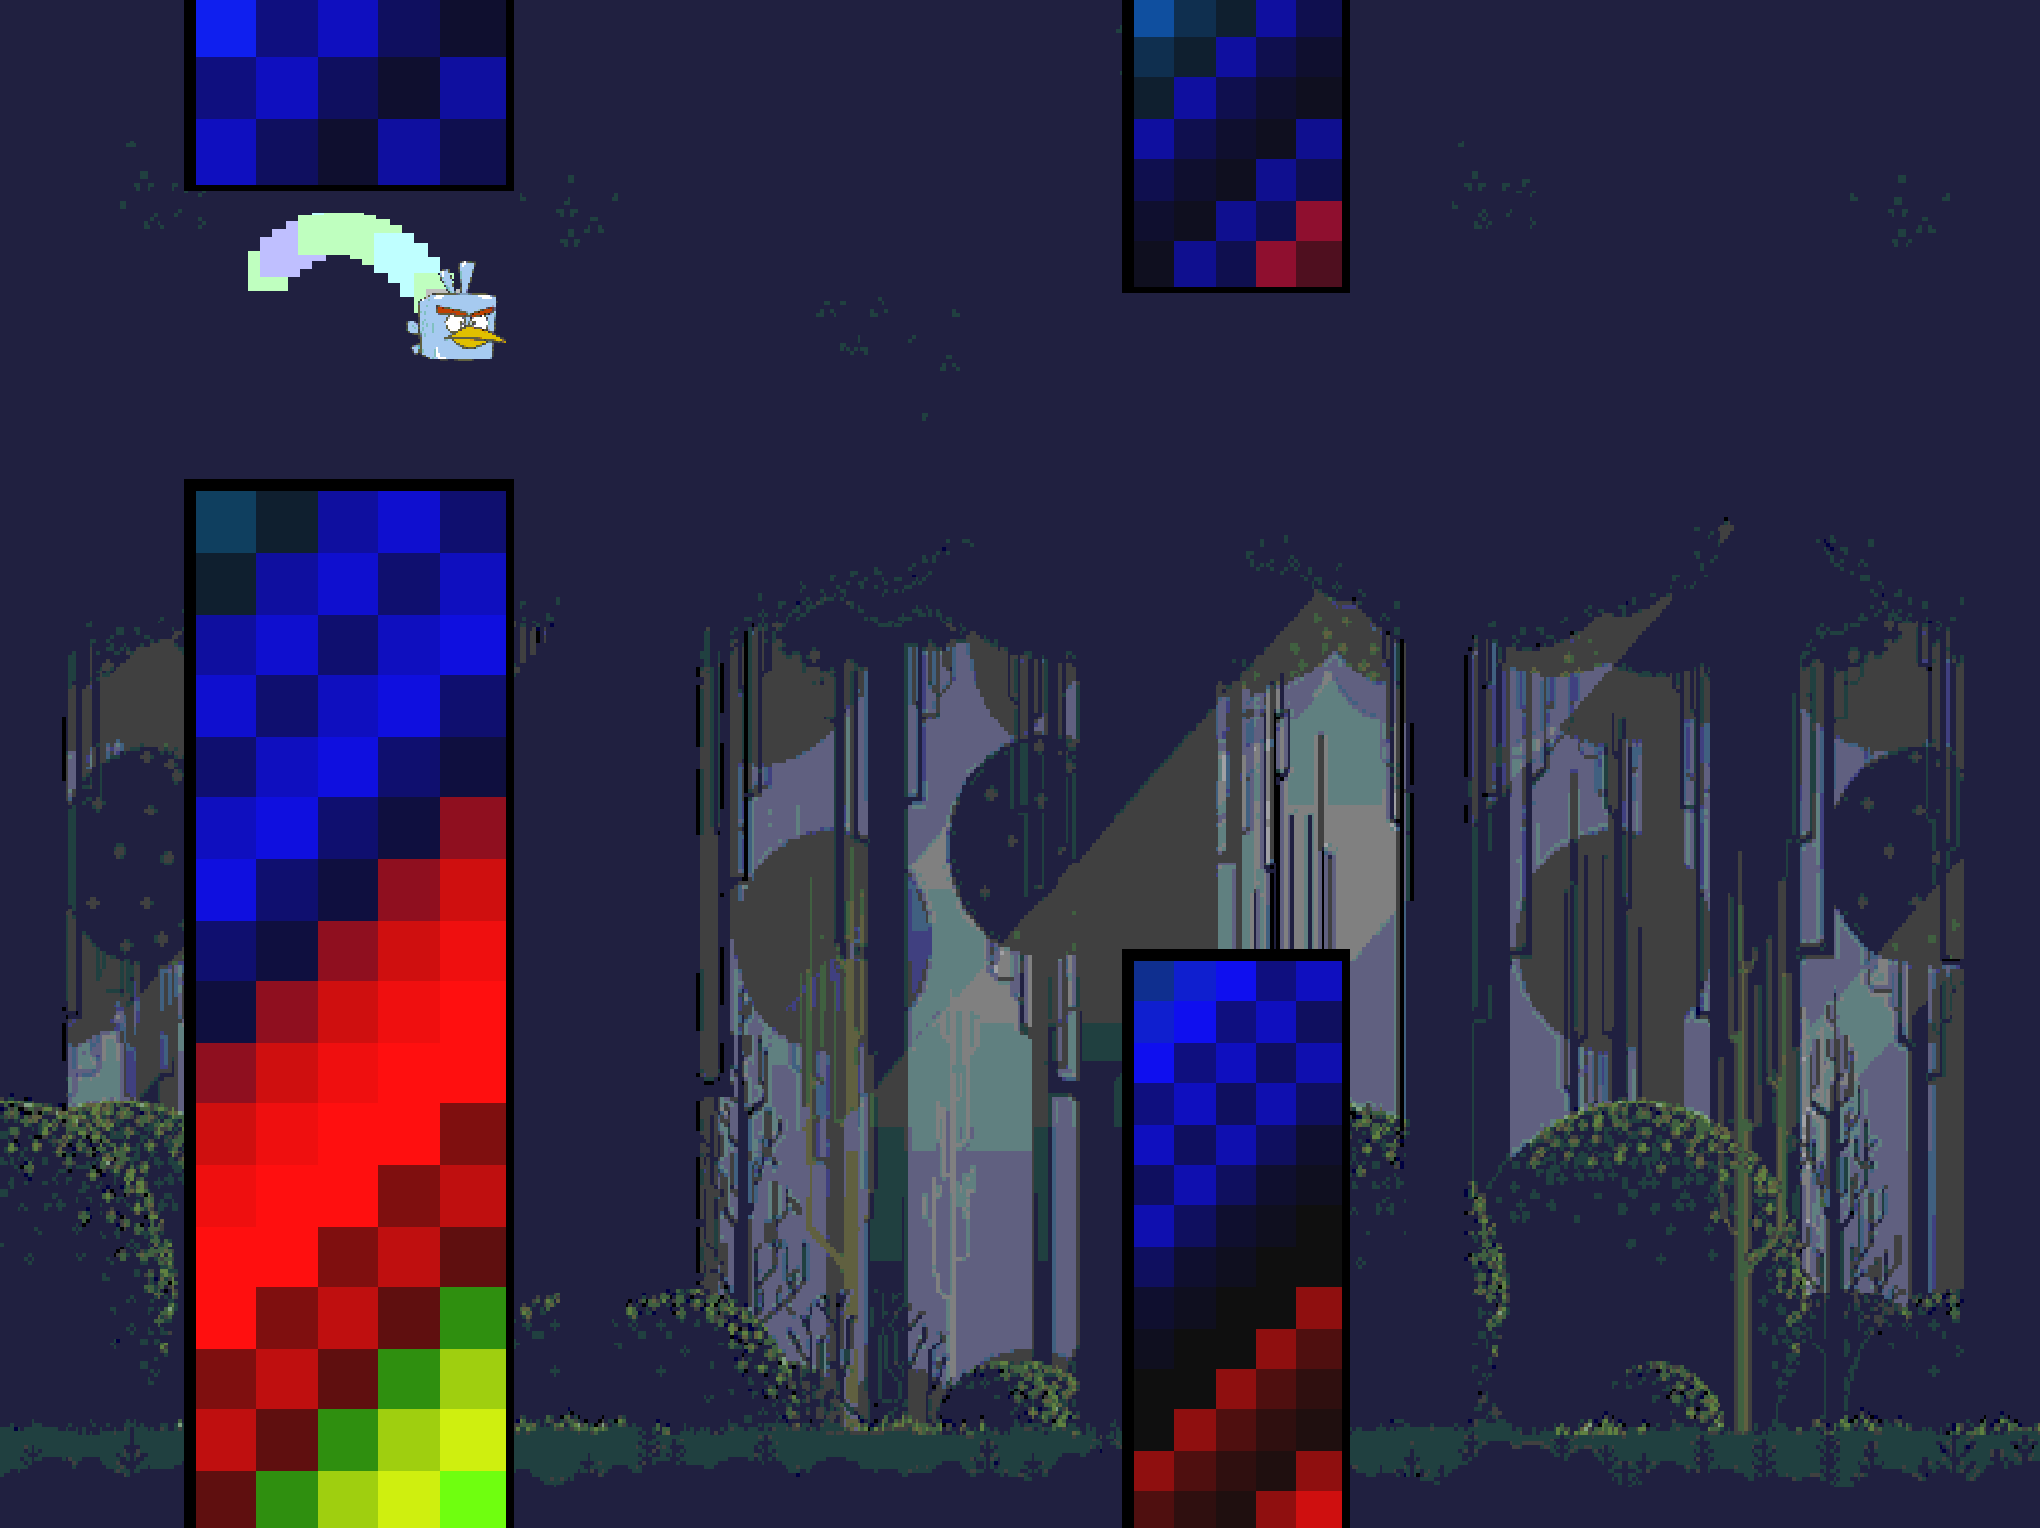
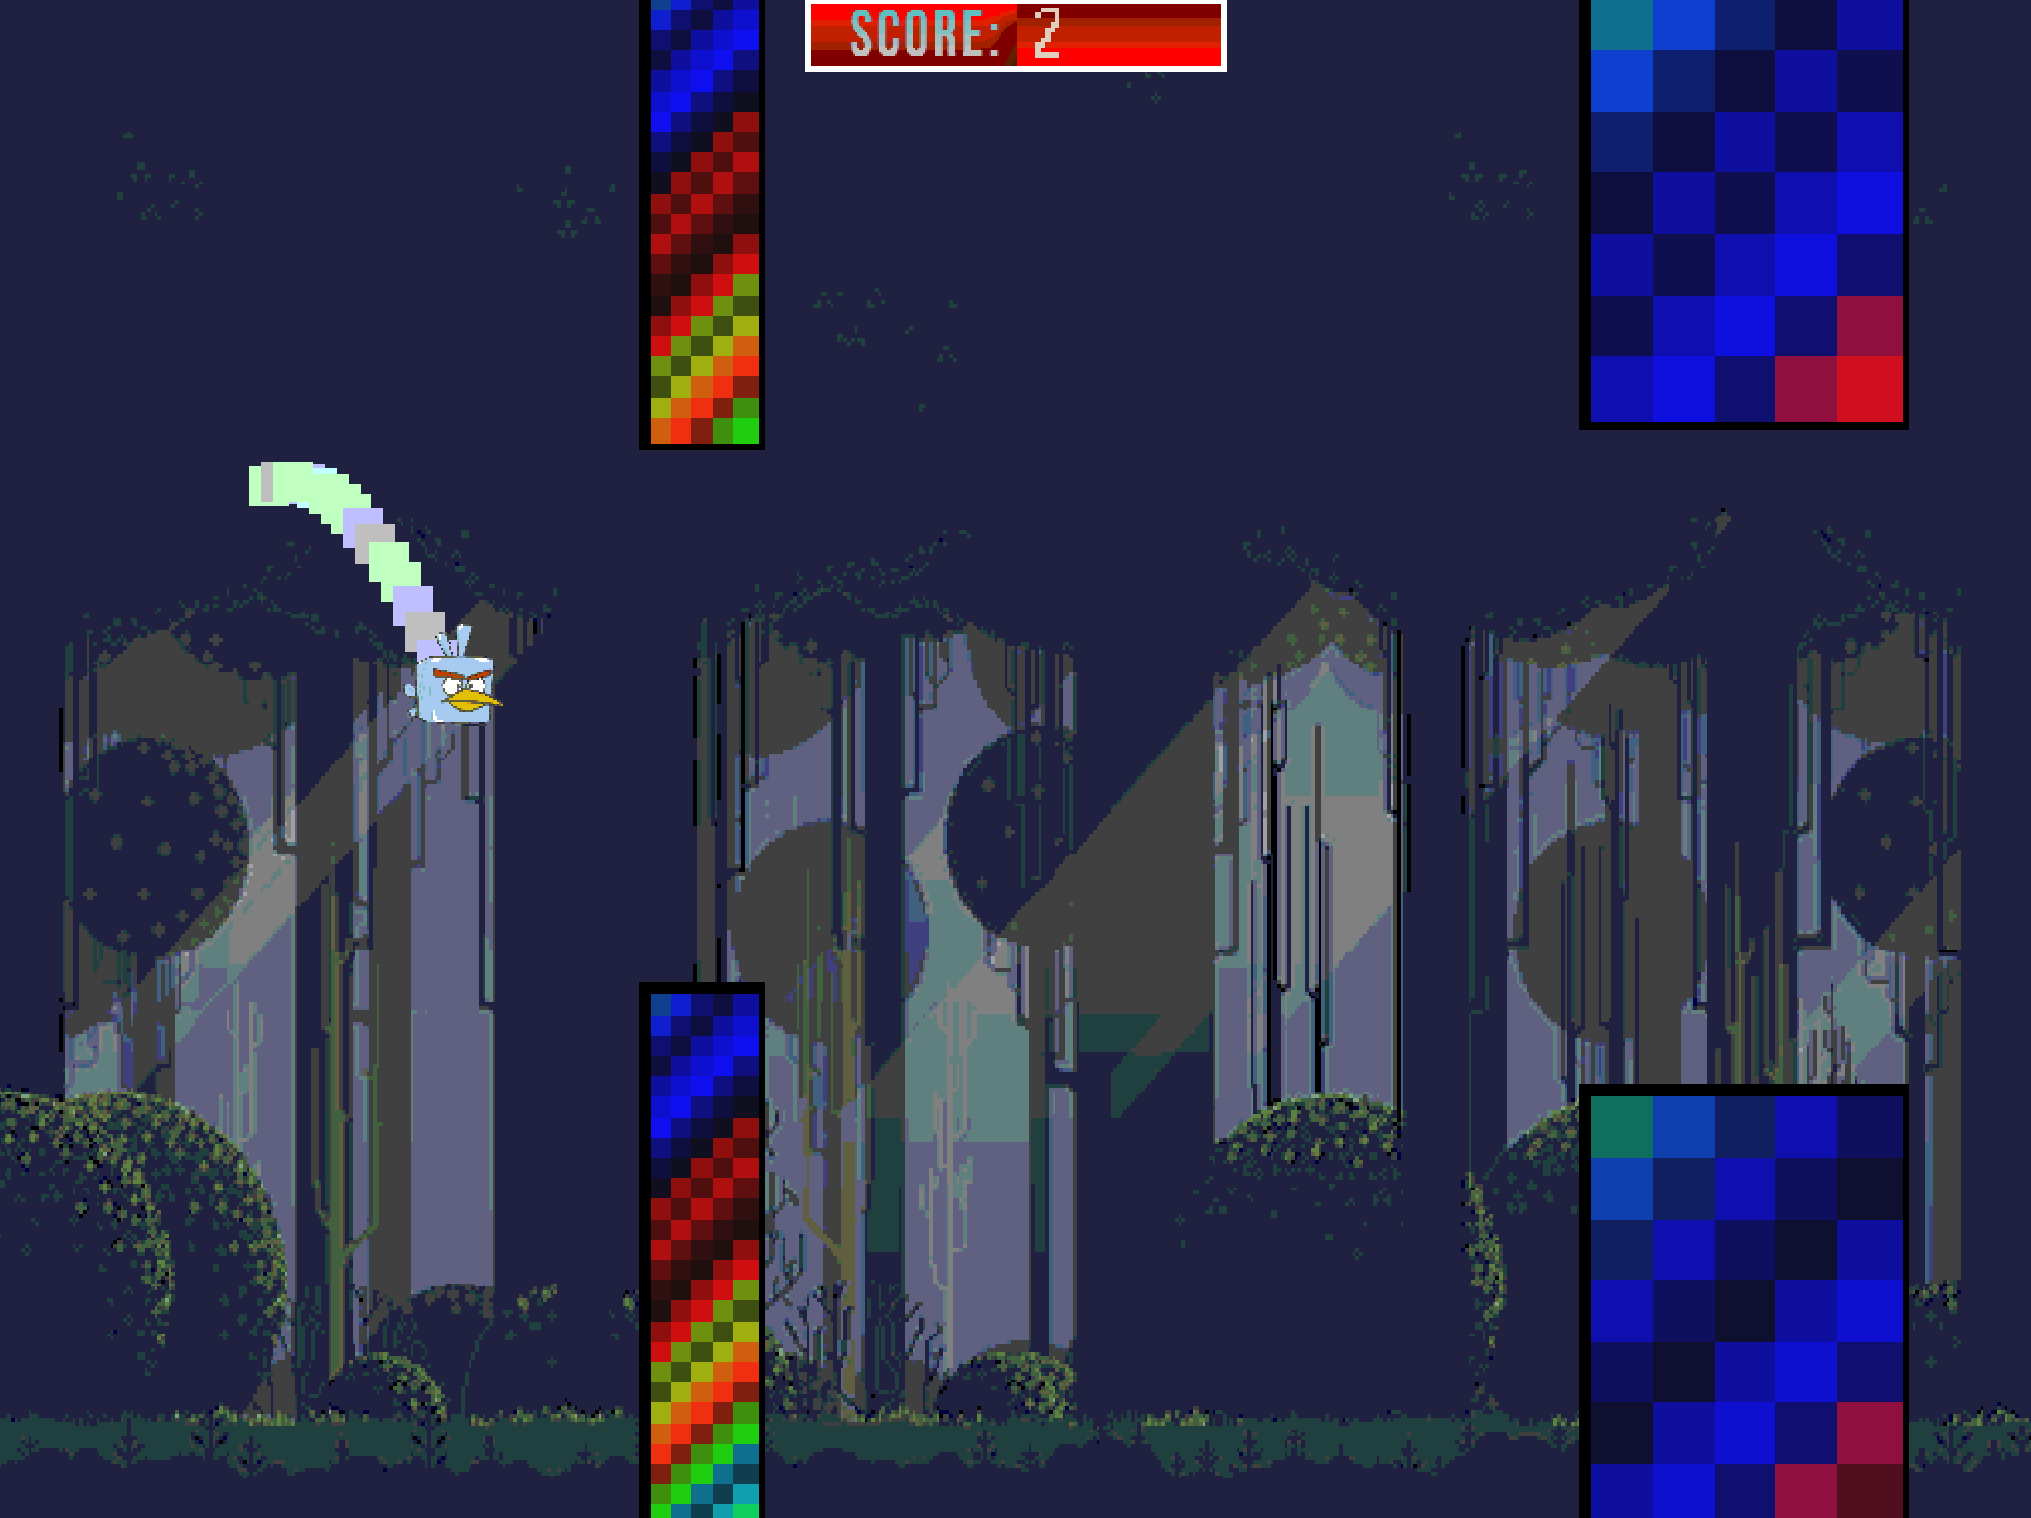
FlappyBird|Feature|Font and score panel

diff --git a/FlappyBird/Core/Game.cpp b/FlappyBird/Core/Game.cpp
@@ -33,6 +33,12 @@ float timeFromLastFpsPrint = 0;
 int currentFpsCount = 0;
 
 #endif
+
+// Font
+font_t font1 = { 0 };
+
+// Score panel
+scorePanel_t scorePanel = {0};
 //================================================
 
 
@@ -93,17 +99,21 @@ void restart() {
 	memset(columns, 0, MAX_COLUMNS * sizeof(column_t));
 	memset(particles, 0, MAX_PARTICLES * sizeof(particle_t));
 	currentColumnsSpeed = COLUMNS_START_SPEED;
+	scorePanel.currentScore = 0;
 }
 
 // initialize game data in this function
 void initialize() {
 	restart();
-	loadTexture((const char*)(L"Resources/Bird.bmp"), &actor.bird_texture);
-	loadTexture((const char*)(L"Resources/GameOverMenu2.bmp"), &gameOverMenu.button_pressed);
-	loadTexture((const char*)(L"Resources/StartMenu2.bmp"), &startMenu.button_pressed);
-	loadTexture((const char*)(L"Resources/GameOverMenu1.bmp"), &gameOverMenu.button_not_pressed);
-	loadTexture((const char*)(L"Resources/StartMenu1.bmp"), &startMenu.button_not_pressed);
-	loadTexture((const char*)(L"Resources/BackGround.bmp"), &backGroundTexture);
+	loadTexture((L"Resources/Bird.bmp"), &actor.bird_texture);
+	loadTexture((L"Resources/GameOverMenu2.bmp"), &gameOverMenu.button_pressed);
+	loadTexture((L"Resources/StartMenu2.bmp"), &startMenu.button_pressed);
+	loadTexture((L"Resources/GameOverMenu1.bmp"), &gameOverMenu.button_not_pressed);
+	loadTexture((L"Resources/StartMenu1.bmp"), &startMenu.button_not_pressed);
+	loadTexture((L"Resources/BackGround.bmp"), &backGroundTexture);
+	loadFont((L"Resources/Font"), &font1);
+	loadTexture(L"Resources/ScorePanel.bmp", &scorePanel.panelTexture);
+	setFontColor(&font1, 0xAFDFCFBF);
 }
 //================================================
 
@@ -132,6 +142,15 @@ void drawBackGround() {
 
 void drawActor() {
 	drawTexture(&actor.bird_texture, buffer, {actor.pos.x, actor.pos.y}, {BIRD_WIDTH, BIRD_HEIGHT});
+}
+
+void drawScorePanel() {
+	if (currentGameState == STATE_GAME_OVER_MENU ||currentGameState == STATE_GAME) {
+		drawRect_int(buffer, {SCORE_MINX - EPSILON, SCORE_MINY - EPSILON}, {SCORE_MAXX-SCORE_MINX + 2 * EPSILON, SCORE_MAXY-SCORE_MINY + 2 * EPSILON}, 0xFFFFFFFF);
+		drawTexture(&scorePanel.panelTexture, buffer, {SCORE_MINX, SCORE_MINY}, {SCORE_MAXX-SCORE_MINX, SCORE_MAXY-SCORE_MINY});
+		vec2f_t tpos = {SCORE_NUMBER_MINX, SCORE_NUMBER_MINY};
+		drawNumberFree(buffer, tpos, SCORE_NUMBER_HEIGHT, SCORE_NUMBER_STEP, scorePanel.currentScore, &font1);
+	}
 }
 
 void drawMenu() {
@@ -198,7 +217,7 @@ void updateParticles(float dt) {
 		}
 	}
 }
-void updateMenu() {
+void updateMenu(float dt) {
 	if (isCursorInsideButton() && is_mouse_button_pressed(0) && currentGameState != STATE_GAME) {
 		currentGameState = STATE_GAME;
 		restart();
@@ -216,6 +235,7 @@ void updateColumns(float dt) {
 	if (lastColumnGenerationTimeDelay > gen_interval) {
 		lastColumnGenerationTimeDelay = 0;
 		createColumn();
+		scorePanel.currentScore++;
 	} else {
 		lastColumnGenerationTimeDelay += dt;
 	}
@@ -289,7 +309,7 @@ void act(float dt) {
 		schedule_quit_game();
 	}
 
-	updateMenu();
+	updateMenu(dt);
 	updateActor(dt);
 	updateColumns(dt);
 	updateParticles(dt);
@@ -318,6 +338,7 @@ void draw() {
 	drawParticles();
 	drawActor();
 	drawMenu();
+	drawScorePanel();
 }
 
 // free game data in this function
@@ -328,6 +349,8 @@ void finalize() {
 	cleanupTexture(&startMenu.button_not_pressed);
 	cleanupTexture(&gameOverMenu.button_not_pressed);
 	cleanupTexture(&backGroundTexture);
+	cleanupFont(&font1);
+	cleanupTexture(&scorePanel.panelTexture);
 }
 //================================================
 

diff --git a/FlappyBird/Core/Core.hpp b/FlappyBird/Core/Core.hpp
@@ -63,7 +63,7 @@ extern char errorMessage[ERROR_MESSAGE_LEN];
 #define MAX_COLUMNS (SCREEN_WIDTH / 50)
 #define TOTAL_COLUMN_TEXTURE_SPLITS_COUNT (SCREEN_WIDTH / 200)
 
-// MENU
+// MENUS
 #define MENU_MINX (SCREEN_WIDTH * 3 / 10)
 #define MENU_MAXX (SCREEN_WIDTH * 7 / 10)
 #define MENU_MINY (SCREEN_HEIGHT / 4)
@@ -71,20 +71,37 @@ extern char errorMessage[ERROR_MESSAGE_LEN];
 
 #define MENU_BUTTON_MINY (MENU_MINY + 2 * (MENU_MAXY - MENU_MINY) / 3)
 
+// Score panel
+#define SCORE_MINX (SCREEN_WIDTH * 4 / 10)
+#define SCORE_MAXX (SCREEN_WIDTH * 6 / 10)
+#define SCORE_MINY (SCREEN_HEIGHT / 100)
+#define SCORE_MAXY (SCREEN_HEIGHT / 20)
+
+#define SCORE_NUMBER_HEIGHT (SCREEN_HEIGHT / 30.0f)
+#define SCORE_NUMBER_MINX (SCORE_MINX + (SCORE_MAXX-SCORE_MINX) / 2.0f + SCREEN_WIDTH / 100.0f)
+#define SCORE_NUMBER_MINY (SCORE_MINY + (SCORE_MAXY-SCORE_MINY) / 2.0f - SCORE_NUMBER_HEIGHT / 2.0f)
+#define SCORE_NUMBER_STEP (SCREEN_WIDTH / 100.0f)
+
 // Particles
 #define MAX_PARTICLES 15
 #define PARTICLES_GENERATION_INTERVAL 0.01f
 #define PARTICLE_SIZE (SCREEN_WIDTH / 50)
+
+// Fonts
+#define FONT_IMAGES_COUNT 10
+#define FONR_IMAGE_FILE_LENGTH 100
 //=============================
 
 
 // Typedefs
 //=============================
+typedef struct scorePanel scorePanel_t;
 typedef struct texture tex_t;
 typedef struct column column_t;
 typedef struct bird bird_t;
 typedef struct menu menu_t;
 typedef struct particle particle_t;
+typedef struct font font_t;
 //=============================
 
 
@@ -116,6 +133,13 @@ struct particle {
 	vec2f_t pos;
 	int seed;
 };
+struct font {
+	tex_t numbers[FONT_IMAGES_COUNT];
+};
+struct scorePanel {
+	tex_t panelTexture;
+	int currentScore;
+};
 //=============================
 
 
@@ -123,7 +147,7 @@ struct particle {
 //=============================
 // Textures
 int cleanupTexture(tex_t * t);
-int loadTexture(const char *path, tex_t * result);
+int loadTexture(const wchar_t *path, tex_t * result);
 int drawTexture(tex_t * tex, uint32_t dest[SCREEN_HEIGHT][SCREEN_WIDTH],  vec2f_t pos, vec2f_t dim);
 
 // Simple shapes drawing
@@ -135,4 +159,11 @@ int setPixel(uint32_t dest[SCREEN_HEIGHT][SCREEN_WIDTH], vec2f_t pos, uint32_t v
 int cycleMoveLeft(int x, int k);
 int PrintErrorMessage();
 bool aabbIntersectionTest(vec2f_t a1, vec2f_t b1, vec2f_t a2, vec2f_t b2);
+
+// Fonts
+int loadFont(const wchar_t * fileName, font_t * res);
+int drawNumberInBox(uint32_t dest[SCREEN_HEIGHT][SCREEN_WIDTH], vec2f_t pos, vec2f_t dim, float step, int num, font_t * font);
+int drawNumberFree(uint32_t dest[SCREEN_HEIGHT][SCREEN_WIDTH], vec2f_t pos, float height, float step, int num, font_t * font);
+int cleanupFont(font_t * res);
+int setFontColor(font_t * font, int col);
 //=============================

diff --git a/FlappyBird/Core/Font.cpp b/FlappyBird/Core/Font.cpp
@@ -1,0 +1,82 @@
+#include "Core.hpp"
+
+int loadFont(const wchar_t * fileName, font_t * res) {
+	NOT_NULL(fileName);
+	NOT_NULL(res);
+
+	wchar_t name[FONR_IMAGE_FILE_LENGTH] = {0};
+
+	for (int i = 0; i < FONT_IMAGES_COUNT; i++) {
+		memset(name, 0, FONR_IMAGE_FILE_LENGTH);
+		swprintf(name, L"%ls/%d.bmp", fileName, i);
+		loadTexture(name, res->numbers + i);
+	}
+
+	return 0;
+}
+
+int drawNumberInBox(uint32_t dest[SCREEN_HEIGHT][SCREEN_WIDTH], vec2f_t pos, vec2f_t dim, float step, int num, font_t * font) {
+	NOT_NULL(dest);
+	NOT_NULL(font);
+
+	char str[FONR_IMAGE_FILE_LENGTH] = {0};
+	sprintf(str, "%d", num);
+	int sz = strlen(str);
+
+	vec2f_t charDim = {dim.x / sz, dim.y};
+
+	for (int i = 0; i < sz; i++) {
+		drawTexture(font->numbers + (str[i] - '0'), dest, {pos.x + charDim.x * i, pos.y}, {charDim.x - step, charDim.y});
+	}
+
+	return 0;
+}
+
+int drawNumberFree(uint32_t dest[SCREEN_HEIGHT][SCREEN_WIDTH], vec2f_t pos, float height, float step, int num, font_t * font) {
+	NOT_NULL(dest);
+	NOT_NULL(font);
+
+	char str[FONR_IMAGE_FILE_LENGTH] = {0};
+	sprintf(str, "%d", num);
+	int sz = strlen(str);
+
+	float char_width = height / 2 + step;
+
+	vec2f_t charDim = {char_width, height};
+
+	for (int i = 0; i < sz; i++) {
+		drawTexture(font->numbers + (str[i] - '0'), dest, {pos.x + charDim.x * i, pos.y}, {charDim.x - step, charDim.y});
+	}
+
+	return 0;
+}
+
+int setFontColor(font_t * font, int col) {
+	NOT_NULL(font);
+
+	for (int i = 0; i < FONT_IMAGES_COUNT; i++) {
+		int w = font->numbers[i].width;
+		int h = font->numbers[i].height;
+
+		for (int x = 0; x < w; x++) {
+			for (int y = 0; y < h; y++) {
+				if (((uint32_t*) font->numbers[i].buf) [y * w + x] == 0x00FFFFFF) {
+					((uint32_t*) font->numbers[i].buf) [y * w + x] = col;
+				}
+			}
+		}
+
+	}
+
+	return 0;
+}
+
+int cleanupFont(font_t * res) {
+	NOT_NULL(res);
+
+	for (int i = 0; i < FONT_IMAGES_COUNT; i++) {
+		cleanupTexture(res->numbers + i);
+	}
+
+	return 0;
+}

diff --git a/FlappyBird/Core/Utils.cpp b/FlappyBird/Core/Utils.cpp
@@ -128,7 +128,7 @@ int drawTexture(tex_t * tex, uint32_t dest[SCREEN_HEIGHT][SCREEN_WIDTH],  vec2f_
 		for (int y1 = 0; y1 < h; y1++) {
 			if (0 <= (x + x1) && (x + x1) < SCREEN_WIDTH && 0 <= (y + y1) && (y + y1) < SCREEN_HEIGHT && w > 0 && h > 0) {
 				int tx = (float)x1 / (float)w * (float) tex->width;
-				int ty = (1.0f - (float)y1 / (float)h) * (float) tex->height;
+				int ty = ((float)(h - y1 - 1) / (float)h) * (float) tex->height;
 
 				tx = maxInt(0, minInt(tx, tex->width - 1));
 				ty = maxInt(0, minInt(ty, tex->height - 1));
@@ -146,13 +146,12 @@ int drawTexture(tex_t * tex, uint32_t dest[SCREEN_HEIGHT][SCREEN_WIDTH],  vec2f_
 	return 0;
 }
 
-int loadTexture(const char *path, tex_t * result) {
+int loadTexture(const wchar_t *path, tex_t * result) {
 	NOT_NULL(path);
 	NOT_NULL(result);
 
 	HBITMAP bm = (HBITMAP) LoadImageW(NULL, (LPCWSTR)path,
 			IMAGE_BITMAP, 0, 0, LR_LOADFROMFILE);
-
 	ENSURE_M(bm != NULL, "bmp load error");
 
 	BITMAP bitmap = {0};
